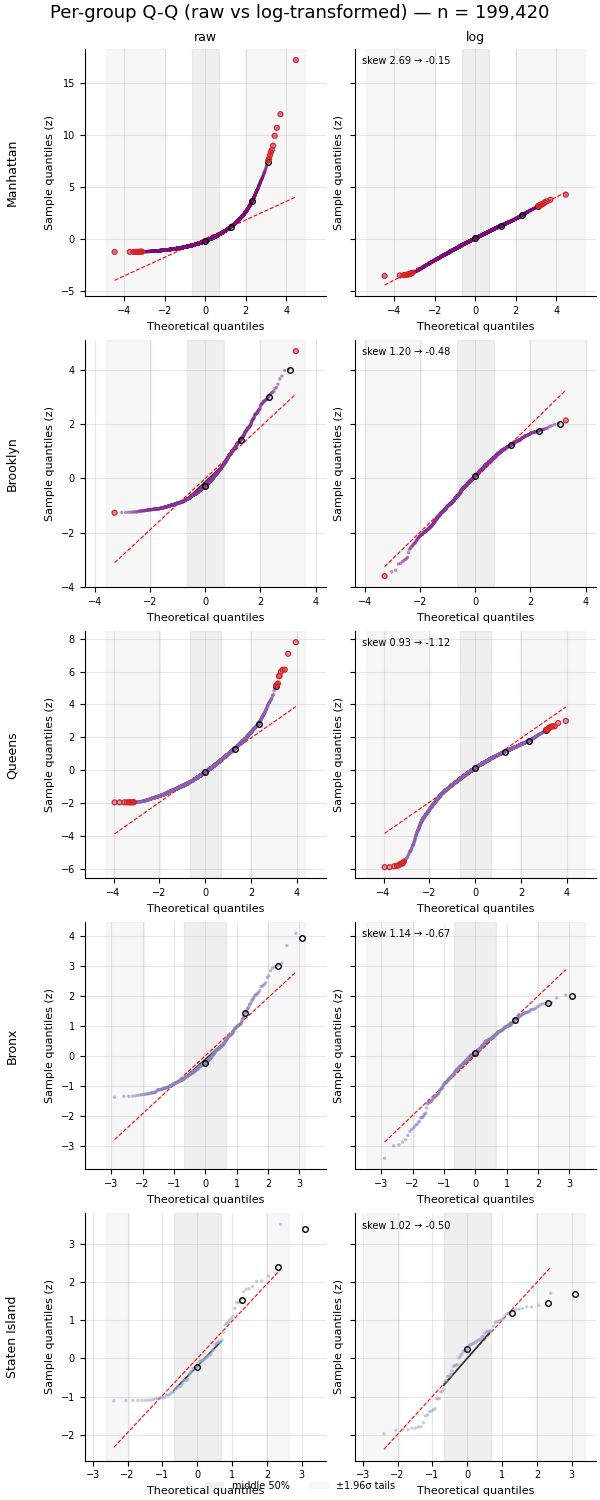
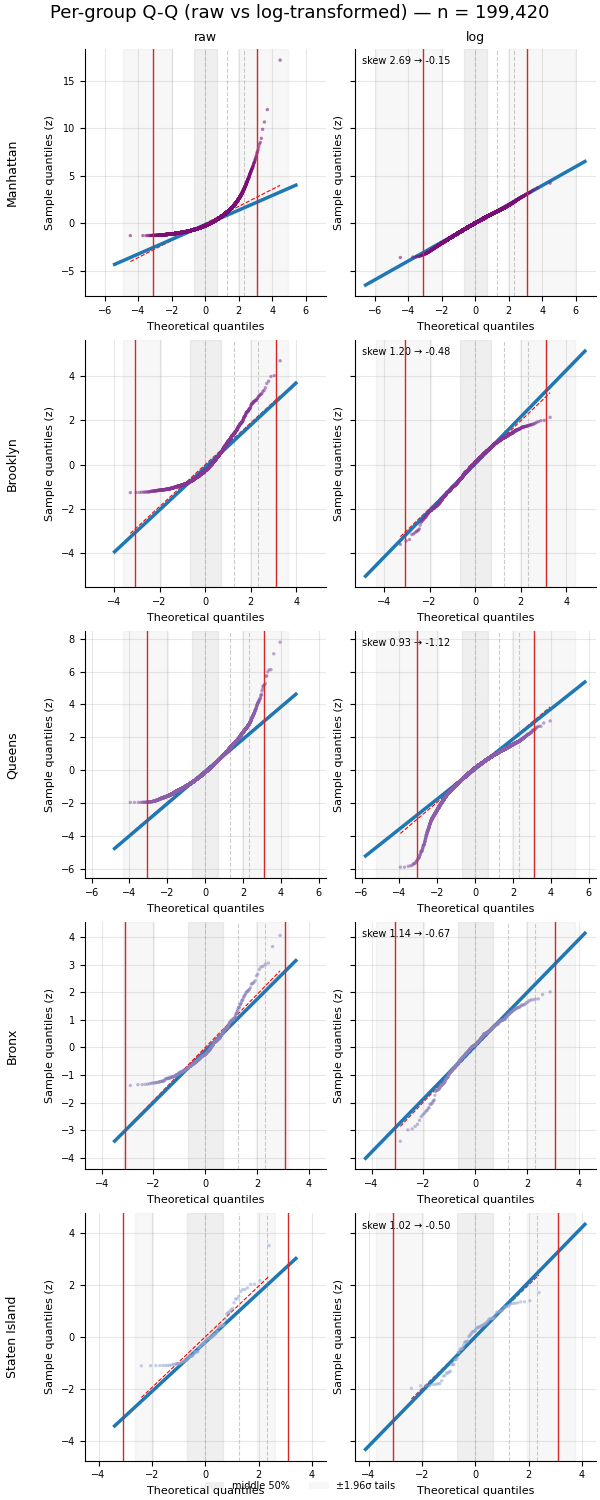
refactor(qq): percentile gridlines, tail boundary lines, extended robust line

diff --git a/tests/test_qq.py b/tests/test_qq.py
@@ -909,23 +909,6 @@ def _marker_trace(n: int = 5000):
     return ("f", osm, osr, slope, intercept, 0.0)
 
 
-def _tail_collections(ax):
-    import matplotlib.colors as mcolors
-
-    tail_rgba = mcolors.to_rgba(load_viz_config().qq_markers.tail_color)
-    out = []
-    for c in ax.collections:
-        if len(c.get_offsets()) == 0:
-            continue
-        try:
-            rgba = np.asarray(c.get_edgecolors())[0]
-        except IndexError:
-            continue
-        if np.allclose(rgba, tail_rgba):
-            out.append(c)
-    return out
-
-
 def test_qq_markers_rings_robust_tail_present(tmp_path, monkeypatch) -> None:
     import broadway.discover.qq as qq_module
 
@@ -942,13 +925,68 @@ def test_qq_markers_rings_robust_tail_present(tmp_path, monkeypatch) -> None:
         l for l in ax.lines
         if l.get_linestyle() == "-" and l.get_color() == markers.robust_line_color
     ]
-    assert robust
-    rings = [
+    assert len(robust) == 1
+    gridlines = [
         l for l in ax.lines
-        if l.get_marker() == "o" and l.get_linestyle().lower() in ("none", "")
+        if l.get_linestyle() == "--" and l.get_color() == markers.ring_color
     ]
-    assert len(rings) == len(markers.percentiles)
-    assert _tail_collections(ax)
+    assert len(gridlines) == len(markers.percentiles)
+    for l, p in zip(gridlines, markers.percentiles):
+        assert np.allclose(l.get_xdata(), stats.norm.ppf(p))
+    tail_lines = [
+        l for l in ax.lines
+        if l.get_linestyle() == "-" and l.get_color() == markers.tail_color
+    ]
+    assert len(tail_lines) == 2
+
+
+def test_qq_markers_robust_line_spans_axes(tmp_path, monkeypatch) -> None:
+    import broadway.discover.qq as qq_module
+
+    markers = load_viz_config().qq_markers
+    zones = load_viz_config().qq_zones
+    captured: list = []
+    monkeypatch.setattr(qq_module.plt, "close", lambda fig: captured.append(fig))
+    draw_xlims: list[tuple[float, float]] = []
+    orig_draw = qq_module._draw_qq_markers
+
+    def spy(ax, osm, osr, markers):
+        draw_xlims.append(ax.get_xlim())
+        return orig_draw(ax, osm, osr, markers)
+
+    monkeypatch.setattr(qq_module, "_draw_qq_markers", spy)
+    _plot_chunk(
+        [_marker_trace()], tmp_path / "markers.png", 1, 1, 3.0, 100, "BuPu_r", 5000,
+        zones, markers,
+    )
+    ax = captured[-1].axes[0]
+    robust = [
+        l for l in ax.lines
+        if l.get_linestyle() == "-" and l.get_color() == markers.robust_line_color
+    ]
+    assert len(robust) == 1
+    assert np.allclose(robust[0].get_xdata(), draw_xlims[0])
+
+
+def test_qq_markers_tail_lines_at_threshold(tmp_path, monkeypatch) -> None:
+    import broadway.discover.qq as qq_module
+
+    markers = load_viz_config().qq_markers
+    zones = load_viz_config().qq_zones
+    captured: list = []
+    monkeypatch.setattr(qq_module.plt, "close", lambda fig: captured.append(fig))
+    _plot_chunk(
+        [_marker_trace()], tmp_path / "markers_tail.png", 1, 1, 3.0, 100, "BuPu_r", 5000,
+        zones, markers,
+    )
+    ax = captured[-1].axes[0]
+    tail_lines = [
+        l for l in ax.lines
+        if l.get_linestyle() == "-" and l.get_color() == markers.tail_color
+    ]
+    assert len(tail_lines) == 2
+    xs = sorted(round(float(l.get_xdata()[0]), 6) for l in tail_lines)
+    assert xs == sorted([round(markers.tail_threshold, 6), round(-markers.tail_threshold, 6)])
 
 
 def test_qq_markers_toggles_off(tmp_path, monkeypatch) -> None:
@@ -970,29 +1008,13 @@ def test_qq_markers_toggles_off(tmp_path, monkeypatch) -> None:
         for l in ax.lines
     )
     assert not any(
-        l.get_marker() == "o" and l.get_linestyle().lower() in ("none", "")
+        l.get_linestyle() == "--" and l.get_color() == markers.ring_color
         for l in ax.lines
     )
-    assert _tail_collections(ax) == []
-
-
-def test_qq_markers_tail_highlight_correctness(tmp_path, monkeypatch) -> None:
-    import broadway.discover.qq as qq_module
-
-    markers = load_viz_config().qq_markers
-    zones = load_viz_config().qq_zones
-    captured: list = []
-    monkeypatch.setattr(qq_module.plt, "close", lambda fig: captured.append(fig))
-    _plot_chunk(
-        [_marker_trace()], tmp_path / "markers_tail.png", 1, 1, 3.0, 100, "BuPu_r", 5000,
-        zones, markers,
+    assert not any(
+        l.get_linestyle() == "-" and l.get_color() == markers.tail_color
+        for l in ax.lines
     )
-    ax = captured[-1].axes[0]
-    colls = _tail_collections(ax)
-    assert colls
-    offs = np.concatenate([c.get_offsets() for c in colls])
-    assert offs.shape[0] > 0
-    assert np.all(np.abs(offs[:, 0]) > markers.tail_threshold)
 
 
 def test_qq_markers_on_joint_raw_path(tmp_path, monkeypatch) -> None:

diff --git a/src/broadway/discover/qq.py b/src/broadway/discover/qq.py
@@ -144,32 +144,38 @@ def _draw_qq_markers(ax, osm: np.ndarray, osr: np.ndarray, markers: QqMarkersCon
         return
     if markers.percentile_rings:
         for p in markers.percentiles:
-            ax.plot(
-                [stats.norm.ppf(p)],
-                [np.quantile(osr, p)],
-                marker="o",
-                linestyle="none",
-                markerfacecolor="none",
-                markeredgecolor=markers.ring_color,
-                markersize=markers.ring_size,
-                zorder=4,
+            ax.axvline(
+                x=stats.norm.ppf(p),
+                color=markers.ring_color,
+                linestyle="--",
+                linewidth=0.8,
+                alpha=0.6,
+                zorder=0,
             )
     if markers.tail_highlight:
-        mask = np.abs(osm) > markers.tail_threshold
-        ax.scatter(
-            osm[mask],
-            osr[mask],
-            facecolor="none",
-            edgecolor=markers.tail_color,
-            s=markers.tail_size,
+        ax.axvline(
+            x=-markers.tail_threshold,
+            color=markers.tail_color,
+            linestyle="-",
+            linewidth=markers.tail_line_width,
+            zorder=4,
+        )
+        ax.axvline(
+            x=markers.tail_threshold,
+            color=markers.tail_color,
+            linestyle="-",
+            linewidth=markers.tail_line_width,
             zorder=4,
         )
     if markers.robust_line:
         q1 = (stats.norm.ppf(0.25), np.quantile(osr, 0.25))
         q3 = (stats.norm.ppf(0.75), np.quantile(osr, 0.75))
+        slope = (q3[1] - q1[1]) / (q3[0] - q1[0])
+        intercept = q1[1] - slope * q1[0]
+        xmin, xmax = ax.get_xlim()
         ax.plot(
-            [q1[0], q3[0]],
-            [q1[1], q3[1]],
+            [xmin, xmax],
+            [slope * xmin + intercept, slope * xmax + intercept],
             color=markers.robust_line_color,
             linestyle="-",
             linewidth=markers.robust_line_width,

diff --git a/tests/test_viz.py b/tests/test_viz.py
@@ -63,12 +63,11 @@ def test_qq_markers_config_parses() -> None:
     assert markers.robust_line is True
     assert markers.percentiles == [0.5, 0.9, 0.99, 0.999]
     assert markers.tail_threshold == 3.09
-    assert markers.ring_color == "#000000"
-    assert markers.ring_size == 4
+    assert markers.ring_color == "#aaaaaa"
     assert markers.tail_color == "#d62728"
-    assert markers.tail_size == 12
-    assert markers.robust_line_color == "#333333"
-    assert markers.robust_line_width == 1.2
+    assert markers.tail_line_width == 1.0
+    assert markers.robust_line_color == "#1f77b4"
+    assert markers.robust_line_width == 2.5
 
 
 def test_qq_markers_config_forbids_unknown_key() -> None:
@@ -77,14 +76,13 @@ def test_qq_markers_config_forbids_unknown_key() -> None:
             enabled=True,
             percentile_rings=True,
             percentiles=[0.5, 0.9, 0.99, 0.999],
-            ring_color="#000000",
-            ring_size=4,
+            ring_color="#aaaaaa",
             tail_highlight=True,
             tail_threshold=3.09,
             tail_color="#d62728",
-            tail_size=12,
+            tail_line_width=1.0,
             robust_line=True,
-            robust_line_color="#333333",
-            robust_line_width=1.2,
+            robust_line_color="#1f77b4",
+            robust_line_width=2.5,
             unknown_key="nope",
         )

diff --git a/src/broadway/config/viz.py b/src/broadway/config/viz.py
@@ -28,11 +28,10 @@ class QqMarkersConfig(BaseModel):
     percentile_rings: bool
     percentiles: list[float]
     ring_color: str
-    ring_size: float
     tail_highlight: bool
     tail_threshold: float
     tail_color: str
-    tail_size: float
+    tail_line_width: float
     robust_line: bool
     robust_line_color: str
     robust_line_width: float
